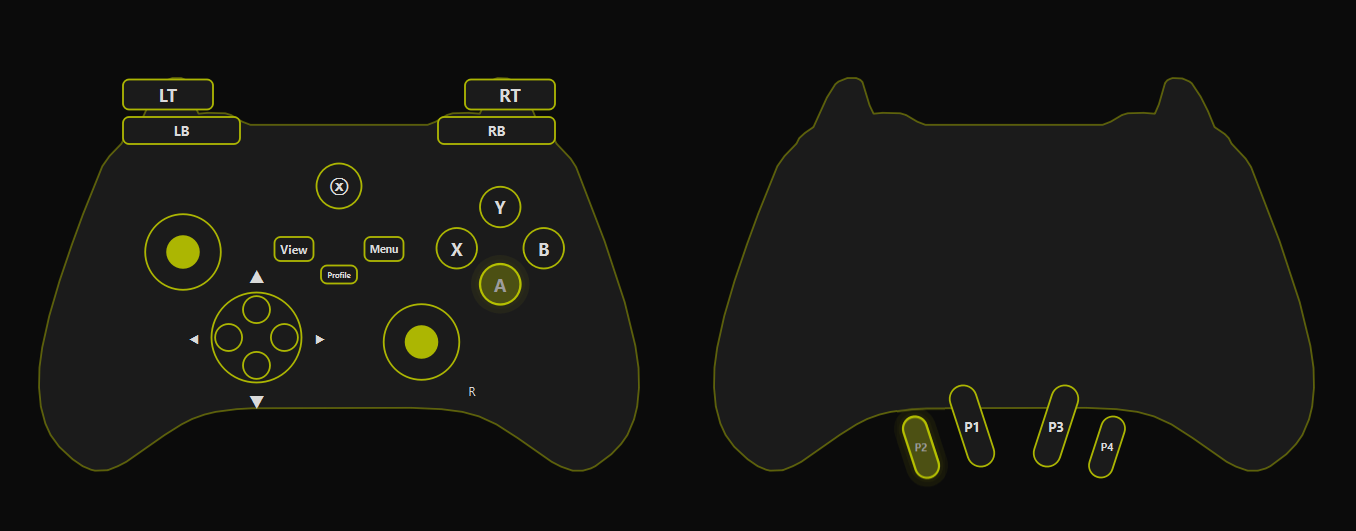
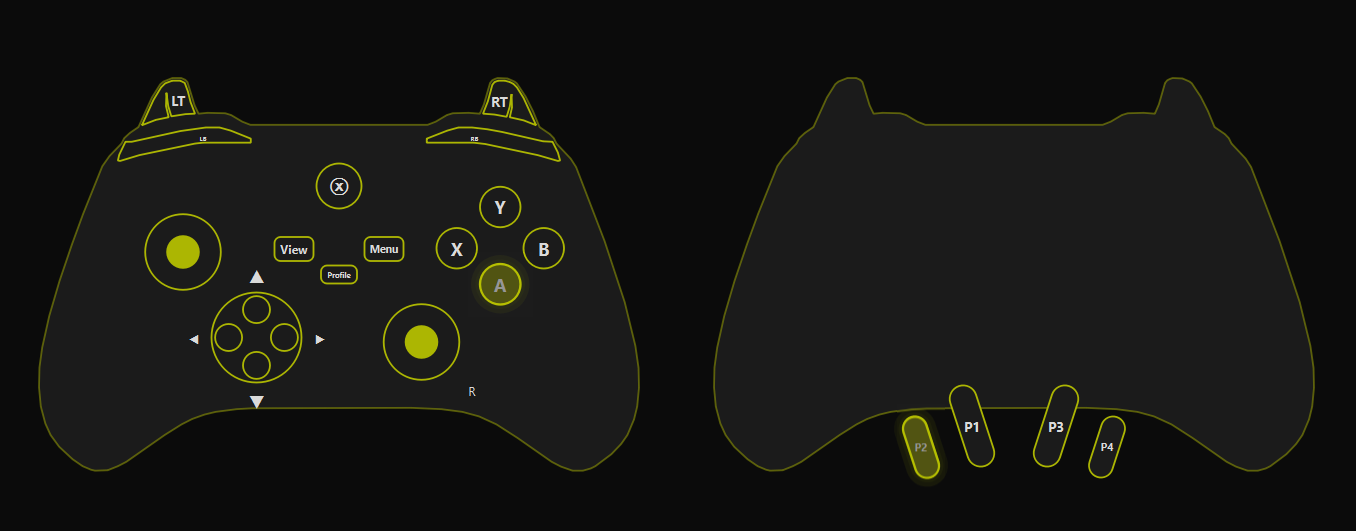
Triggers and bumpers are the diagram's own shapes, on their own spots
The fins and the two bumpers are traced from the same CC0 Series controller
diagram as the body, so LT / RT stand on the trigger fins and LB / RB lie along
the bumpers instead of floating as rounded boxes above the body. Each part is
stored normalised to its own box, so it draws correctly at any overlay size, and
carries the largest box that fits inside it for its label.

Changed region(s): [[0.3097, 0.1205, 0.4336, 0.3013], [0.0929, 0.1205, 0.1858, 0.3013]]

diff --git a/design/XboxLayouts.dc.html b/design/XboxLayouts.dc.html
@@ -14,7 +14,7 @@
 
   </style>
 </helmet>
-<div style="width: 1382px; height: 392px; background: #0c0c0e; position: relative; overflow: hidden;"><svg width="1382" height="392" viewBox="0 0 1382 392" xmlns="http://www.w3.org/2000/svg" style="display: block;"><path d="M 120.9 78.0 L 126.8 78.0 L 129.5 79.2 L 131.0 80.7 L 135.7 96.1 L 138.4 101.8 L 144.3 101.2 L 156.2 101.5 L 160.1 102.7 L 167.5 107.1 L 172.9 109.2 L 291.1 109.2 L 296.5 107.1 L 303.9 102.7 L 307.8 101.5 L 318.5 101.2 L 325.9 101.8 L 328.6 95.5 L 332.7 81.3 L 334.2 79.5 L 336.0 78.6 L 337.8 78.0 L 344.3 78.3 L 349.1 80.4 L 350.6 81.6 L 356.5 90.5 L 361.3 100.0 L 365.7 110.7 L 372.6 115.4 L 375.2 118.1 L 377.0 121.7 L 386.5 131.8 L 390.1 137.4 L 409.1 186.8 L 422.5 227.5 L 429.6 256.6 L 431.7 271.2 L 432.0 284.5 L 430.8 297.0 L 428.7 305.6 L 424.3 316.0 L 420.1 322.0 L 413.6 328.8 L 402.9 336.8 L 399.9 338.3 L 394.6 339.8 L 387.7 339.8 L 380.0 337.1 L 373.8 333.9 L 351.2 318.1 L 336.9 308.9 L 325.3 303.6 L 314.3 300.6 L 300.4 298.8 L 280.1 297.9 L 173.8 298.2 L 163.6 298.8 L 149.7 300.6 L 142.3 302.4 L 134.2 305.3 L 127.1 308.9 L 115.8 316.0 L 90.2 333.9 L 84.6 336.8 L 77.8 339.5 L 69.4 339.8 L 66.8 339.2 L 61.1 336.8 L 54.3 332.1 L 45.4 323.8 L 39.7 316.0 L 36.2 308.3 L 33.2 297.0 L 32.0 284.2 L 32.3 270.9 L 34.1 257.8 L 38.8 236.7 L 45.7 213.2 L 54.0 188.8 L 61.4 168.6 L 74.2 136.8 L 79.0 130.0 L 87.0 121.7 L 88.8 118.1 L 92.6 114.6 L 98.3 110.7 L 107.2 91.1 L 112.8 82.2 L 114.9 80.4 L 120.9 78.0 Z" fill="#1e1e1e" stroke="#c9d400" stroke-opacity="0.47" stroke-width="1.2"></path><circle cx="128.0" cy="194.0" r="25.2" fill="#1e1e1e" stroke="#c9d400" stroke-width="1.2"></circle><circle cx="128.0" cy="194.0" r="10.6" fill="#c9d400"></circle><circle cx="177.0" cy="251.0" r="30.0" fill="#1e1e1e" stroke="#c9d400" stroke-width="1.2"></circle><circle cx="177.0" cy="232.4" r="9.0" fill="#1e1e1e" stroke="#c9d400" stroke-width="1.2"></circle><circle cx="177.0" cy="269.6" r="9.0" fill="#1e1e1e" stroke="#c9d400" stroke-width="1.2"></circle><circle cx="158.4" cy="251.0" r="9.0" fill="#1e1e1e" stroke="#c9d400" stroke-width="1.2"></circle><circle cx="195.6" cy="251.0" r="9.0" fill="#1e1e1e" stroke="#c9d400" stroke-width="1.2"></circle><circle cx="287.0" cy="254.0" r="25.2" fill="#1e1e1e" stroke="#c9d400" stroke-width="1.2"></circle><circle cx="287.0" cy="254.0" r="10.6" fill="#c9d400"></circle><path d="M 88.0 83.0 C 88.0 80.8 89.8 79.0 92.0 79.0 L 144.0 79.0 C 146.2 79.0 148.0 80.8 148.0 83.0 L 148.0 95.0 C 148.0 97.2 146.2 99.0 144.0 99.0 L 92.0 99.0 C 89.8 99.0 88.0 97.2 88.0 95.0 L 88.0 83.0 Z" fill="#1e1e1e" stroke="#c9d400" stroke-width="1.2"></path><text x="118.0" y="93.2" text-anchor="middle" font-family="'Segoe UI', system-ui, -apple-system, sans-serif" font-size="12.0" font-weight="700" fill="#ffffff">LT</text><path d="M 316.0 83.0 C 316.0 80.8 317.8 79.0 320.0 79.0 L 372.0 79.0 C 374.2 79.0 376.0 80.8 376.0 83.0 L 376.0 95.0 C 376.0 97.2 374.2 99.0 372.0 99.0 L 320.0 99.0 C 317.8 99.0 316.0 97.2 316.0 95.0 L 316.0 83.0 Z" fill="#1e1e1e" stroke="#c9d400" stroke-width="1.2"></path><text x="346.0" y="93.2" text-anchor="middle" font-family="'Segoe UI', system-ui, -apple-system, sans-serif" font-size="12.0" font-weight="700" fill="#ffffff">RT</text><path d="M 88.0 108.0 C 88.0 105.8 89.8 104.0 92.0 104.0 L 162.0 104.0 C 164.2 104.0 166.0 105.8 166.0 108.0 L 166.0 118.0 C 166.0 120.2 164.2 122.0 162.0 122.0 L 92.0 122.0 C 89.8 122.0 88.0 120.2 88.0 118.0 L 88.0 108.0 Z" fill="#1e1e1e" stroke="#c9d400" stroke-width="1.2"></path><text x="127.0" y="117.2" text-anchor="middle" font-family="'Segoe UI', system-ui, -apple-system, sans-serif" font-size="12.0" font-weight="700" fill="#ffffff">LB</text><path d="M 298.0 108.0 C 298.0 105.8 299.8 104.0 302.0 104.0 L 372.0 104.0 C 374.2 104.0 376.0 105.8 376.0 108.0 L 376.0 118.0 C 376.0 120.2 374.2 122.0 372.0 122.0 L 302.0 122.0 C 299.8 122.0 298.0 120.2 298.0 118.0 L 298.0 108.0 Z" fill="#1e1e1e" stroke="#c9d400" stroke-width="1.2"></path><text x="337.0" y="117.2" text-anchor="middle" font-family="'Segoe UI', system-ui, -apple-system, sans-serif" font-size="12.0" font-weight="700" fill="#ffffff">RB</text><path d="M 247.0 150.0 C 247.0 158.3 240.3 165.0 232.0 165.0 C 223.7 165.0 217.0 158.3 217.0 150.0 C 217.0 141.7 223.7 135.0 232.0 135.0 C 240.3 135.0 247.0 141.7 247.0 150.0 Z" fill="#1e1e1e" stroke="#c9d400" stroke-width="1.2"></path><text x="232.0" y="154.2" text-anchor="middle" font-family="'Segoe UI', system-ui, -apple-system, sans-serif" font-size="12.0" font-weight="700" fill="#ffffff">ⓧ</text><path d="M 189.0 188.0 C 189.0 185.8 190.8 184.0 193.0 184.0 L 211.0 184.0 C 213.2 184.0 215.0 185.8 215.0 188.0 L 215.0 196.0 C 215.0 198.2 213.2 200.0 211.0 200.0 L 193.0 200.0 C 190.8 200.0 189.0 198.2 189.0 196.0 L 189.0 188.0 Z" fill="#1e1e1e" stroke="#c9d400" stroke-width="1.2"></path><text x="202.0" y="196.2" text-anchor="middle" font-family="'Segoe UI', system-ui, -apple-system, sans-serif" font-size="12.0" font-weight="700" fill="#ffffff">View</text><path d="M 249.0 188.0 C 249.0 185.8 250.8 184.0 253.0 184.0 L 271.0 184.0 C 273.2 184.0 275.0 185.8 275.0 188.0 L 275.0 196.0 C 275.0 198.2 273.2 200.0 271.0 200.0 L 253.0 200.0 C 250.8 200.0 249.0 198.2 249.0 196.0 L 249.0 188.0 Z" fill="#1e1e1e" stroke="#c9d400" stroke-width="1.2"></path><text x="262.0" y="196.2" text-anchor="middle" font-family="'Segoe UI', system-ui, -apple-system, sans-serif" font-size="12.0" font-weight="700" fill="#ffffff">Menu</text><path d="M 220.0 207.0 C 220.0 204.8 221.8 203.0 224.0 203.0 L 240.0 203.0 C 242.2 203.0 244.0 204.8 244.0 207.0 L 244.0 211.0 C 244.0 213.2 242.2 215.0 240.0 215.0 L 224.0 215.0 C 221.8 215.0 220.0 213.2 220.0 211.0 L 220.0 207.0 Z" fill="#1e1e1e" stroke="#c9d400" stroke-width="1.2"></path><text x="232.0" y="212.4" text-anchor="middle" font-family="'Segoe UI', system-ui, -apple-system, sans-serif" font-size="9.6" font-weight="700" fill="#ffffff">Share</text><path d="M 353.0 164.0 C 353.0 171.5 347.0 177.5 339.5 177.5 C 332.0 177.5 326.0 171.5 326.0 164.0 C 326.0 156.5 332.0 150.5 339.5 150.5 C 347.0 150.5 353.0 156.5 353.0 164.0 Z" fill="#1e1e1e" stroke="#c9d400" stroke-width="1.2"></path><text x="339.5" y="168.2" text-anchor="middle" font-family="'Segoe UI', system-ui, -apple-system, sans-serif" font-size="12.0" font-weight="700" fill="#ffffff">Y</text><path d="M 324.0 191.5 C 324.0 199.0 318.0 205.0 310.5 205.0 C 303.0 205.0 297.0 199.0 297.0 191.5 C 297.0 184.0 303.0 178.0 310.5 178.0 C 318.0 178.0 324.0 184.0 324.0 191.5 Z" fill="#1e1e1e" stroke="#c9d400" stroke-width="1.2"></path><text x="310.5" y="195.7" text-anchor="middle" font-family="'Segoe UI', system-ui, -apple-system, sans-serif" font-size="12.0" font-weight="700" fill="#ffffff">X</text><path d="M 382.0 191.5 C 382.0 199.0 376.0 205.0 368.5 205.0 C 361.0 205.0 355.0 199.0 355.0 191.5 C 355.0 184.0 361.0 178.0 368.5 178.0 C 376.0 178.0 382.0 184.0 382.0 191.5 Z" fill="#1e1e1e" stroke="#c9d400" stroke-width="1.2"></path><text x="368.5" y="195.7" text-anchor="middle" font-family="'Segoe UI', system-ui, -apple-system, sans-serif" font-size="12.0" font-weight="700" fill="#ffffff">B</text><path d="M 353.0 215.5 C 353.0 223.0 347.0 229.0 339.5 229.0 C 332.0 229.0 326.0 223.0 326.0 215.5 C 326.0 208.0 332.0 202.0 339.5 202.0 C 347.0 202.0 353.0 208.0 353.0 215.5 Z" fill="none" stroke="#c9d400" stroke-opacity="0.18" stroke-width="12"></path><path d="M 353.0 215.5 C 353.0 223.0 347.0 229.0 339.5 229.0 C 332.0 229.0 326.0 223.0 326.0 215.5 C 326.0 208.0 332.0 202.0 339.5 202.0 C 347.0 202.0 353.0 208.0 353.0 215.5 Z" fill="none" stroke="#c9d400" stroke-opacity="0.09" stroke-width="6"></path><path d="M 353.0 215.5 C 353.0 223.0 347.0 229.0 339.5 229.0 C 332.0 229.0 326.0 223.0 326.0 215.5 C 326.0 208.0 332.0 202.0 339.5 202.0 C 347.0 202.0 353.0 208.0 353.0 215.5 Z" fill="#c9d400" stroke="#c9d400" stroke-width="2.2"></path><text x="339.5" y="219.7" text-anchor="middle" font-family="'Segoe UI', system-ui, -apple-system, sans-serif" font-size="12.0" font-weight="700" fill="#000000">A</text><text x="233.0" y="31.7" text-anchor="middle" font-family="'Segoe UI', system-ui, -apple-system, sans-serif" font-size="10.7" font-weight="400" fill="#a1a1a6">Xbox Wireless</text><path d="M 586.9 78.0 L 592.8 78.0 L 595.5 79.2 L 597.0 80.7 L 601.7 96.1 L 604.4 101.8 L 610.3 101.2 L 622.2 101.5 L 626.1 102.7 L 633.5 107.1 L 638.9 109.2 L 757.1 109.2 L 762.5 107.1 L 769.9 102.7 L 773.8 101.5 L 784.5 101.2 L 791.9 101.8 L 794.6 95.5 L 798.7 81.3 L 800.2 79.5 L 802.0 78.6 L 803.8 78.0 L 810.3 78.3 L 815.1 80.4 L 816.6 81.6 L 822.5 90.5 L 827.3 100.0 L 831.7 110.7 L 838.6 115.4 L 841.2 118.1 L 843.0 121.7 L 852.5 131.8 L 856.1 137.4 L 875.1 186.8 L 888.5 227.5 L 895.6 256.6 L 897.7 271.2 L 898.0 284.5 L 896.8 297.0 L 894.7 305.6 L 890.3 316.0 L 886.1 322.0 L 879.6 328.8 L 868.9 336.8 L 865.9 338.3 L 860.6 339.8 L 853.7 339.8 L 846.0 337.1 L 839.8 333.9 L 817.2 318.1 L 802.9 308.9 L 791.3 303.6 L 780.3 300.6 L 766.4 298.8 L 746.1 297.9 L 639.8 298.2 L 629.6 298.8 L 615.7 300.6 L 608.3 302.4 L 600.2 305.3 L 593.1 308.9 L 581.8 316.0 L 556.2 333.9 L 550.6 336.8 L 543.8 339.5 L 535.4 339.8 L 532.8 339.2 L 527.1 336.8 L 520.3 332.1 L 511.4 323.8 L 505.7 316.0 L 502.2 308.3 L 499.2 297.0 L 498.0 284.2 L 498.3 270.9 L 500.1 257.8 L 504.8 236.7 L 511.7 213.2 L 520.0 188.8 L 527.4 168.6 L 540.2 136.8 L 545.0 130.0 L 553.0 121.7 L 554.8 118.1 L 558.6 114.6 L 564.3 110.7 L 573.2 91.1 L 578.8 82.2 L 580.9 80.4 L 586.9 78.0 Z" fill="#1e1e1e" stroke="#c9d400" stroke-opacity="0.47" stroke-width="1.2"></path><path d="M 1036.9 78.0 L 1042.8 78.0 L 1045.5 79.2 L 1047.0 80.7 L 1051.7 96.1 L 1054.4 101.8 L 1060.3 101.2 L 1072.2 101.5 L 1076.1 102.7 L 1083.5 107.1 L 1088.9 109.2 L 1207.1 109.2 L 1212.5 107.1 L 1219.9 102.7 L 1223.8 101.5 L 1234.5 101.2 L 1241.9 101.8 L 1244.6 95.5 L 1248.7 81.3 L 1250.2 79.5 L 1252.0 78.6 L 1253.8 78.0 L 1260.3 78.3 L 1265.1 80.4 L 1266.6 81.6 L 1272.5 90.5 L 1277.3 100.0 L 1281.7 110.7 L 1288.6 115.4 L 1291.2 118.1 L 1293.0 121.7 L 1302.5 131.8 L 1306.1 137.4 L 1325.1 186.8 L 1338.5 227.5 L 1345.6 256.6 L 1347.7 271.2 L 1348.0 284.5 L 1346.8 297.0 L 1344.7 305.6 L 1340.3 316.0 L 1336.1 322.0 L 1329.6 328.8 L 1318.9 336.8 L 1315.9 338.3 L 1310.6 339.8 L 1303.7 339.8 L 1296.0 337.1 L 1289.8 333.9 L 1267.2 318.1 L 1252.9 308.9 L 1241.3 303.6 L 1230.3 300.6 L 1216.4 298.8 L 1196.1 297.9 L 1089.8 298.2 L 1079.6 298.8 L 1065.7 300.6 L 1058.3 302.4 L 1050.2 305.3 L 1043.1 308.9 L 1031.8 316.0 L 1006.2 333.9 L 1000.6 336.8 L 993.8 339.5 L 985.4 339.8 L 982.8 339.2 L 977.1 336.8 L 970.3 332.1 L 961.4 323.8 L 955.7 316.0 L 952.2 308.3 L 949.2 297.0 L 948.0 284.2 L 948.3 270.9 L 950.1 257.8 L 954.8 236.7 L 961.7 213.2 L 970.0 188.8 L 977.4 168.6 L 990.2 136.8 L 995.0 130.0 L 1003.0 121.7 L 1004.8 118.1 L 1008.6 114.6 L 1014.3 110.7 L 1023.2 91.1 L 1028.8 82.2 L 1030.9 80.4 L 1036.9 78.0 Z" fill="#1e1e1e" stroke="#c9d400" stroke-opacity="0.47" stroke-width="1.2"></path><circle cx="594.0" cy="194.0" r="25.2" fill="#1e1e1e" stroke="#c9d400" stroke-width="1.2"></circle><circle cx="594.0" cy="194.0" r="10.6" fill="#c9d400"></circle><circle cx="643.0" cy="251.0" r="30.0" fill="#1e1e1e" stroke="#c9d400" stroke-width="1.2"></circle><circle cx="643.0" cy="232.4" r="9.0" fill="#1e1e1e" stroke="#c9d400" stroke-width="1.2"></circle><circle cx="643.0" cy="269.6" r="9.0" fill="#1e1e1e" stroke="#c9d400" stroke-width="1.2"></circle><circle cx="624.4" cy="251.0" r="9.0" fill="#1e1e1e" stroke="#c9d400" stroke-width="1.2"></circle><circle cx="661.6" cy="251.0" r="9.0" fill="#1e1e1e" stroke="#c9d400" stroke-width="1.2"></circle><circle cx="753.0" cy="254.0" r="25.2" fill="#1e1e1e" stroke="#c9d400" stroke-width="1.2"></circle><circle cx="753.0" cy="254.0" r="10.6" fill="#c9d400"></circle><path d="M 554.0 83.0 C 554.0 80.8 555.8 79.0 558.0 79.0 L 610.0 79.0 C 612.2 79.0 614.0 80.8 614.0 83.0 L 614.0 95.0 C 614.0 97.2 612.2 99.0 610.0 99.0 L 558.0 99.0 C 555.8 99.0 554.0 97.2 554.0 95.0 L 554.0 83.0 Z" fill="#1e1e1e" stroke="#c9d400" stroke-width="1.2"></path><text x="584.0" y="93.2" text-anchor="middle" font-family="'Segoe UI', system-ui, -apple-system, sans-serif" font-size="12.0" font-weight="700" fill="#ffffff">LT</text><path d="M 782.0 83.0 C 782.0 80.8 783.8 79.0 786.0 79.0 L 838.0 79.0 C 840.2 79.0 842.0 80.8 842.0 83.0 L 842.0 95.0 C 842.0 97.2 840.2 99.0 838.0 99.0 L 786.0 99.0 C 783.8 99.0 782.0 97.2 782.0 95.0 L 782.0 83.0 Z" fill="#1e1e1e" stroke="#c9d400" stroke-width="1.2"></path><text x="812.0" y="93.2" text-anchor="middle" font-family="'Segoe UI', system-ui, -apple-system, sans-serif" font-size="12.0" font-weight="700" fill="#ffffff">RT</text><path d="M 554.0 108.0 C 554.0 105.8 555.8 104.0 558.0 104.0 L 628.0 104.0 C 630.2 104.0 632.0 105.8 632.0 108.0 L 632.0 118.0 C 632.0 120.2 630.2 122.0 628.0 122.0 L 558.0 122.0 C 555.8 122.0 554.0 120.2 554.0 118.0 L 554.0 108.0 Z" fill="#1e1e1e" stroke="#c9d400" stroke-width="1.2"></path><text x="593.0" y="117.2" text-anchor="middle" font-family="'Segoe UI', system-ui, -apple-system, sans-serif" font-size="12.0" font-weight="700" fill="#ffffff">LB</text><path d="M 764.0 108.0 C 764.0 105.8 765.8 104.0 768.0 104.0 L 838.0 104.0 C 840.2 104.0 842.0 105.8 842.0 108.0 L 842.0 118.0 C 842.0 120.2 840.2 122.0 838.0 122.0 L 768.0 122.0 C 765.8 122.0 764.0 120.2 764.0 118.0 L 764.0 108.0 Z" fill="#1e1e1e" stroke="#c9d400" stroke-width="1.2"></path><text x="803.0" y="117.2" text-anchor="middle" font-family="'Segoe UI', system-ui, -apple-system, sans-serif" font-size="12.0" font-weight="700" fill="#ffffff">RB</text><path d="M 713.0 150.0 C 713.0 158.3 706.3 165.0 698.0 165.0 C 689.7 165.0 683.0 158.3 683.0 150.0 C 683.0 141.7 689.7 135.0 698.0 135.0 C 706.3 135.0 713.0 141.7 713.0 150.0 Z" fill="#1e1e1e" stroke="#c9d400" stroke-width="1.2"></path><text x="698.0" y="154.2" text-anchor="middle" font-family="'Segoe UI', system-ui, -apple-system, sans-serif" font-size="12.0" font-weight="700" fill="#ffffff">ⓧ</text><path d="M 655.0 188.0 C 655.0 185.8 656.8 184.0 659.0 184.0 L 677.0 184.0 C 679.2 184.0 681.0 185.8 681.0 188.0 L 681.0 196.0 C 681.0 198.2 679.2 200.0 677.0 200.0 L 659.0 200.0 C 656.8 200.0 655.0 198.2 655.0 196.0 L 655.0 188.0 Z" fill="#1e1e1e" stroke="#c9d400" stroke-width="1.2"></path><text x="668.0" y="196.2" text-anchor="middle" font-family="'Segoe UI', system-ui, -apple-system, sans-serif" font-size="12.0" font-weight="700" fill="#ffffff">View</text><path d="M 715.0 188.0 C 715.0 185.8 716.8 184.0 719.0 184.0 L 737.0 184.0 C 739.2 184.0 741.0 185.8 741.0 188.0 L 741.0 196.0 C 741.0 198.2 739.2 200.0 737.0 200.0 L 719.0 200.0 C 716.8 200.0 715.0 198.2 715.0 196.0 L 715.0 188.0 Z" fill="#1e1e1e" stroke="#c9d400" stroke-width="1.2"></path><text x="728.0" y="196.2" text-anchor="middle" font-family="'Segoe UI', system-ui, -apple-system, sans-serif" font-size="12.0" font-weight="700" fill="#ffffff">Menu</text><path d="M 686.0 207.0 C 686.0 204.8 687.8 203.0 690.0 203.0 L 706.0 203.0 C 708.2 203.0 710.0 204.8 710.0 207.0 L 710.0 211.0 C 710.0 213.2 708.2 215.0 706.0 215.0 L 690.0 215.0 C 687.8 215.0 686.0 213.2 686.0 211.0 L 686.0 207.0 Z" fill="#1e1e1e" stroke="#c9d400" stroke-width="1.2"></path><text x="698.0" y="212.4" text-anchor="middle" font-family="'Segoe UI', system-ui, -apple-system, sans-serif" font-size="9.6" font-weight="700" fill="#ffffff">Profile</text><path d="M 819.0 164.0 C 819.0 171.5 813.0 177.5 805.5 177.5 C 798.0 177.5 792.0 171.5 792.0 164.0 C 792.0 156.5 798.0 150.5 805.5 150.5 C 813.0 150.5 819.0 156.5 819.0 164.0 Z" fill="#1e1e1e" stroke="#c9d400" stroke-width="1.2"></path><text x="805.5" y="168.2" text-anchor="middle" font-family="'Segoe UI', system-ui, -apple-system, sans-serif" font-size="12.0" font-weight="700" fill="#ffffff">Y</text><path d="M 790.0 191.5 C 790.0 199.0 784.0 205.0 776.5 205.0 C 769.0 205.0 763.0 199.0 763.0 191.5 C 763.0 184.0 769.0 178.0 776.5 178.0 C 784.0 178.0 790.0 184.0 790.0 191.5 Z" fill="#1e1e1e" stroke="#c9d400" stroke-width="1.2"></path><text x="776.5" y="195.7" text-anchor="middle" font-family="'Segoe UI', system-ui, -apple-system, sans-serif" font-size="12.0" font-weight="700" fill="#ffffff">X</text><path d="M 848.0 191.5 C 848.0 199.0 842.0 205.0 834.5 205.0 C 827.0 205.0 821.0 199.0 821.0 191.5 C 821.0 184.0 827.0 178.0 834.5 178.0 C 842.0 178.0 848.0 184.0 848.0 191.5 Z" fill="#1e1e1e" stroke="#c9d400" stroke-width="1.2"></path><text x="834.5" y="195.7" text-anchor="middle" font-family="'Segoe UI', system-ui, -apple-system, sans-serif" font-size="12.0" font-weight="700" fill="#ffffff">B</text><path d="M 819.0 215.5 C 819.0 223.0 813.0 229.0 805.5 229.0 C 798.0 229.0 792.0 223.0 792.0 215.5 C 792.0 208.0 798.0 202.0 805.5 202.0 C 813.0 202.0 819.0 208.0 819.0 215.5 Z" fill="none" stroke="#c9d400" stroke-opacity="0.18" stroke-width="12"></path><path d="M 819.0 215.5 C 819.0 223.0 813.0 229.0 805.5 229.0 C 798.0 229.0 792.0 223.0 792.0 215.5 C 792.0 208.0 798.0 202.0 805.5 202.0 C 813.0 202.0 819.0 208.0 819.0 215.5 Z" fill="none" stroke="#c9d400" stroke-opacity="0.09" stroke-width="6"></path><path d="M 819.0 215.5 C 819.0 223.0 813.0 229.0 805.5 229.0 C 798.0 229.0 792.0 223.0 792.0 215.5 C 792.0 208.0 798.0 202.0 805.5 202.0 C 813.0 202.0 819.0 208.0 819.0 215.5 Z" fill="#c9d400" stroke="#c9d400" stroke-width="2.2"></path><text x="805.5" y="219.7" text-anchor="middle" font-family="'Segoe UI', system-ui, -apple-system, sans-serif" font-size="12.0" font-weight="700" fill="#000000">A</text><path d="M 1105.6 294.7 C 1104.0 290.0 1106.6 284.9 1111.3 283.4 C 1116.1 281.8 1121.2 284.4 1122.7 289.1 L 1134.4 325.3 C 1136.0 330.0 1133.4 335.1 1128.7 336.6 C 1123.9 338.2 1118.8 335.6 1117.3 330.9 L 1105.6 294.7 Z" fill="#1e1e1e" stroke="#c9d400" stroke-width="1.2"></path><text x="1120.0" y="314.2" text-anchor="middle" font-family="'Segoe UI', system-ui, -apple-system, sans-serif" font-size="12.0" font-weight="700" fill="#ffffff">P1</text><path d="M 1074.4 314.1 C 1073.0 309.9 1075.3 305.4 1079.5 304.0 C 1083.7 302.7 1088.2 305.0 1089.6 309.2 L 1097.6 333.9 C 1099.0 338.1 1096.7 342.6 1092.5 344.0 C 1088.3 345.3 1083.8 343.0 1082.4 338.8 L 1074.4 314.1 Z" fill="none" stroke="#c9d400" stroke-opacity="0.18" stroke-width="12"></path><path d="M 1074.4 314.1 C 1073.0 309.9 1075.3 305.4 1079.5 304.0 C 1083.7 302.7 1088.2 305.0 1089.6 309.2 L 1097.6 333.9 C 1099.0 338.1 1096.7 342.6 1092.5 344.0 C 1088.3 345.3 1083.8 343.0 1082.4 338.8 L 1074.4 314.1 Z" fill="none" stroke="#c9d400" stroke-opacity="0.09" stroke-width="6"></path><path d="M 1074.4 314.1 C 1073.0 309.9 1075.3 305.4 1079.5 304.0 C 1083.7 302.7 1088.2 305.0 1089.6 309.2 L 1097.6 333.9 C 1099.0 338.1 1096.7 342.6 1092.5 344.0 C 1088.3 345.3 1083.8 343.0 1082.4 338.8 L 1074.4 314.1 Z" fill="#c9d400" stroke="#c9d400" stroke-width="2.2"></path><text x="1086.0" y="328.2" text-anchor="middle" font-family="'Segoe UI', system-ui, -apple-system, sans-serif" font-size="12.0" font-weight="700" fill="#000000">P2</text><path d="M 1173.3 289.1 C 1174.8 284.4 1179.9 281.8 1184.7 283.4 C 1189.4 284.9 1192.0 290.0 1190.4 294.7 L 1178.7 330.9 C 1177.2 335.6 1172.1 338.2 1167.3 336.6 C 1162.6 335.1 1160.0 330.0 1161.6 325.3 L 1173.3 289.1 Z" fill="#1e1e1e" stroke="#c9d400" stroke-width="1.2"></path><text x="1176.0" y="314.2" text-anchor="middle" font-family="'Segoe UI', system-ui, -apple-system, sans-serif" font-size="12.0" font-weight="700" fill="#ffffff">P3</text><path d="M 1206.4 309.2 C 1207.8 305.0 1212.3 302.7 1216.5 304.0 C 1220.7 305.4 1223.0 309.9 1221.6 314.1 L 1213.6 338.8 C 1212.2 343.0 1207.7 345.3 1203.5 344.0 C 1199.3 342.6 1197.0 338.1 1198.4 333.9 L 1206.4 309.2 Z" fill="#1e1e1e" stroke="#c9d400" stroke-width="1.2"></path><text x="1210.0" y="328.2" text-anchor="middle" font-family="'Segoe UI', system-ui, -apple-system, sans-serif" font-size="12.0" font-weight="700" fill="#ffffff">P4</text><text x="924.0" y="31.7" text-anchor="middle" font-family="'Segoe UI', system-ui, -apple-system, sans-serif" font-size="10.7" font-weight="400" fill="#a1a1a6">Xbox Elite Series 2</text></svg></div>
+<div style="width: 1382px; height: 392px; background: #0c0c0e; position: relative; overflow: hidden;"><svg width="1382" height="392" viewBox="0 0 1382 392" xmlns="http://www.w3.org/2000/svg" style="display: block;"><path d="M 120.9 78.0 L 126.8 78.0 L 129.5 79.2 L 131.0 80.7 L 135.7 96.1 L 138.4 101.8 L 144.3 101.2 L 156.2 101.5 L 160.1 102.7 L 167.5 107.1 L 172.9 109.2 L 291.1 109.2 L 296.5 107.1 L 303.9 102.7 L 307.8 101.5 L 318.5 101.2 L 325.9 101.8 L 328.6 95.5 L 332.7 81.3 L 334.2 79.5 L 336.0 78.6 L 337.8 78.0 L 344.3 78.3 L 349.1 80.4 L 350.6 81.6 L 356.5 90.5 L 361.3 100.0 L 365.7 110.7 L 372.6 115.4 L 375.2 118.1 L 377.0 121.7 L 386.5 131.8 L 390.1 137.4 L 409.1 186.8 L 422.5 227.5 L 429.6 256.6 L 431.7 271.2 L 432.0 284.5 L 430.8 297.0 L 428.7 305.6 L 424.3 316.0 L 420.1 322.0 L 413.6 328.8 L 402.9 336.8 L 399.9 338.3 L 394.6 339.8 L 387.7 339.8 L 380.0 337.1 L 373.8 333.9 L 351.2 318.1 L 336.9 308.9 L 325.3 303.6 L 314.3 300.6 L 300.4 298.8 L 280.1 297.9 L 173.8 298.2 L 163.6 298.8 L 149.7 300.6 L 142.3 302.4 L 134.2 305.3 L 127.1 308.9 L 115.8 316.0 L 90.2 333.9 L 84.6 336.8 L 77.8 339.5 L 69.4 339.8 L 66.8 339.2 L 61.1 336.8 L 54.3 332.1 L 45.4 323.8 L 39.7 316.0 L 36.2 308.3 L 33.2 297.0 L 32.0 284.2 L 32.3 270.9 L 34.1 257.8 L 38.8 236.7 L 45.7 213.2 L 54.0 188.8 L 61.4 168.6 L 74.2 136.8 L 79.0 130.0 L 87.0 121.7 L 88.8 118.1 L 92.6 114.6 L 98.3 110.7 L 107.2 91.1 L 112.8 82.2 L 114.9 80.4 L 120.9 78.0 Z" fill="#1e1e1e" stroke="#c9d400" stroke-opacity="0.47" stroke-width="1.2"></path><circle cx="128.0" cy="194.0" r="25.2" fill="#1e1e1e" stroke="#c9d400" stroke-width="1.2"></circle><circle cx="128.0" cy="194.0" r="10.6" fill="#c9d400"></circle><circle cx="177.0" cy="251.0" r="30.0" fill="#1e1e1e" stroke="#c9d400" stroke-width="1.2"></circle><circle cx="177.0" cy="232.4" r="9.0" fill="#1e1e1e" stroke="#c9d400" stroke-width="1.2"></circle><circle cx="177.0" cy="269.6" r="9.0" fill="#1e1e1e" stroke="#c9d400" stroke-width="1.2"></circle><circle cx="158.4" cy="251.0" r="9.0" fill="#1e1e1e" stroke="#c9d400" stroke-width="1.2"></circle><circle cx="195.6" cy="251.0" r="9.0" fill="#1e1e1e" stroke="#c9d400" stroke-width="1.2"></circle><circle cx="287.0" cy="254.0" r="25.2" fill="#1e1e1e" stroke="#c9d400" stroke-width="1.2"></circle><circle cx="287.0" cy="254.0" r="10.6" fill="#c9d400"></circle><path d="M 120.8 79.8 L 126.2 79.8 L 129.2 81.3 L 131.2 86.9 L 133.0 94.1 L 136.0 101.8 L 129.8 102.1 L 120.2 103.6 L 118.2 96.7 L 117.0 87.8 L 116.7 96.7 L 118.4 104.2 L 109.8 105.9 L 100.6 109.5 L 108.3 92.6 L 113.4 84.3 L 116.1 81.6 L 120.8 79.8 Z" fill="#1e1e1e" stroke="#c9d400" stroke-width="1.2"></path><text x="124.8" y="97.2" text-anchor="middle" font-family="'Segoe UI', system-ui, -apple-system, sans-serif" font-size="12.0" font-weight="700" fill="#ffffff">LT</text><path d="M 338.1 79.8 L 342.6 79.8 L 345.8 80.7 L 348.2 81.9 L 350.6 84.3 L 355.1 91.4 L 363.4 109.5 L 355.1 106.2 L 345.8 104.2 L 347.3 97.6 L 347.0 88.7 L 345.8 97.0 L 343.8 103.9 L 335.7 102.4 L 328.0 101.8 L 331.3 93.5 L 334.2 82.5 L 335.7 80.7 L 338.1 79.8 Z" fill="#1e1e1e" stroke="#c9d400" stroke-width="1.2"></path><text x="338.9" y="97.5" text-anchor="middle" font-family="'Segoe UI', system-ui, -apple-system, sans-serif" font-size="12.0" font-weight="700" fill="#ffffff">RT</text><path d="M 143.2 111.0 L 152.4 111.0 L 159.8 113.1 L 173.2 118.4 L 173.2 121.1 L 141.4 121.1 L 136.0 121.7 L 98.9 129.4 L 86.1 133.3 L 84.6 133.0 L 85.5 129.1 L 89.7 120.5 L 93.8 120.5 L 126.2 113.4 L 143.2 111.0 Z" fill="#1e1e1e" stroke="#c9d400" stroke-width="1.2"></path><text x="141.4" y="122.4" text-anchor="middle" font-family="'Segoe UI', system-ui, -apple-system, sans-serif" font-size="12.0" font-weight="700" fill="#ffffff">LB</text><path d="M 311.6 111.0 L 320.8 111.0 L 330.9 112.2 L 340.7 114.0 L 368.1 120.2 L 374.3 120.5 L 377.9 127.7 L 379.4 133.0 L 377.9 133.3 L 364.5 129.4 L 329.4 122.0 L 321.7 121.1 L 290.5 121.1 L 290.5 118.4 L 304.2 113.1 L 311.6 111.0 Z" fill="#1e1e1e" stroke="#c9d400" stroke-width="1.2"></path><text x="322.3" y="122.4" text-anchor="middle" font-family="'Segoe UI', system-ui, -apple-system, sans-serif" font-size="12.0" font-weight="700" fill="#ffffff">RB</text><path d="M 247.0 150.0 C 247.0 158.3 240.3 165.0 232.0 165.0 C 223.7 165.0 217.0 158.3 217.0 150.0 C 217.0 141.7 223.7 135.0 232.0 135.0 C 240.3 135.0 247.0 141.7 247.0 150.0 Z" fill="#1e1e1e" stroke="#c9d400" stroke-width="1.2"></path><text x="232.0" y="154.2" text-anchor="middle" font-family="'Segoe UI', system-ui, -apple-system, sans-serif" font-size="12.0" font-weight="700" fill="#ffffff">ⓧ</text><path d="M 189.0 188.0 C 189.0 185.8 190.8 184.0 193.0 184.0 L 211.0 184.0 C 213.2 184.0 215.0 185.8 215.0 188.0 L 215.0 196.0 C 215.0 198.2 213.2 200.0 211.0 200.0 L 193.0 200.0 C 190.8 200.0 189.0 198.2 189.0 196.0 L 189.0 188.0 Z" fill="#1e1e1e" stroke="#c9d400" stroke-width="1.2"></path><text x="202.0" y="196.2" text-anchor="middle" font-family="'Segoe UI', system-ui, -apple-system, sans-serif" font-size="12.0" font-weight="700" fill="#ffffff">View</text><path d="M 249.0 188.0 C 249.0 185.8 250.8 184.0 253.0 184.0 L 271.0 184.0 C 273.2 184.0 275.0 185.8 275.0 188.0 L 275.0 196.0 C 275.0 198.2 273.2 200.0 271.0 200.0 L 253.0 200.0 C 250.8 200.0 249.0 198.2 249.0 196.0 L 249.0 188.0 Z" fill="#1e1e1e" stroke="#c9d400" stroke-width="1.2"></path><text x="262.0" y="196.2" text-anchor="middle" font-family="'Segoe UI', system-ui, -apple-system, sans-serif" font-size="12.0" font-weight="700" fill="#ffffff">Menu</text><path d="M 220.0 207.0 C 220.0 204.8 221.8 203.0 224.0 203.0 L 240.0 203.0 C 242.2 203.0 244.0 204.8 244.0 207.0 L 244.0 211.0 C 244.0 213.2 242.2 215.0 240.0 215.0 L 224.0 215.0 C 221.8 215.0 220.0 213.2 220.0 211.0 L 220.0 207.0 Z" fill="#1e1e1e" stroke="#c9d400" stroke-width="1.2"></path><text x="232.0" y="212.4" text-anchor="middle" font-family="'Segoe UI', system-ui, -apple-system, sans-serif" font-size="9.6" font-weight="700" fill="#ffffff">Share</text><path d="M 353.0 164.0 C 353.0 171.5 347.0 177.5 339.5 177.5 C 332.0 177.5 326.0 171.5 326.0 164.0 C 326.0 156.5 332.0 150.5 339.5 150.5 C 347.0 150.5 353.0 156.5 353.0 164.0 Z" fill="#1e1e1e" stroke="#c9d400" stroke-width="1.2"></path><text x="339.5" y="168.2" text-anchor="middle" font-family="'Segoe UI', system-ui, -apple-system, sans-serif" font-size="12.0" font-weight="700" fill="#ffffff">Y</text><path d="M 324.0 191.5 C 324.0 199.0 318.0 205.0 310.5 205.0 C 303.0 205.0 297.0 199.0 297.0 191.5 C 297.0 184.0 303.0 178.0 310.5 178.0 C 318.0 178.0 324.0 184.0 324.0 191.5 Z" fill="#1e1e1e" stroke="#c9d400" stroke-width="1.2"></path><text x="310.5" y="195.7" text-anchor="middle" font-family="'Segoe UI', system-ui, -apple-system, sans-serif" font-size="12.0" font-weight="700" fill="#ffffff">X</text><path d="M 382.0 191.5 C 382.0 199.0 376.0 205.0 368.5 205.0 C 361.0 205.0 355.0 199.0 355.0 191.5 C 355.0 184.0 361.0 178.0 368.5 178.0 C 376.0 178.0 382.0 184.0 382.0 191.5 Z" fill="#1e1e1e" stroke="#c9d400" stroke-width="1.2"></path><text x="368.5" y="195.7" text-anchor="middle" font-family="'Segoe UI', system-ui, -apple-system, sans-serif" font-size="12.0" font-weight="700" fill="#ffffff">B</text><path d="M 353.0 215.5 C 353.0 223.0 347.0 229.0 339.5 229.0 C 332.0 229.0 326.0 223.0 326.0 215.5 C 326.0 208.0 332.0 202.0 339.5 202.0 C 347.0 202.0 353.0 208.0 353.0 215.5 Z" fill="none" stroke="#c9d400" stroke-opacity="0.18" stroke-width="12"></path><path d="M 353.0 215.5 C 353.0 223.0 347.0 229.0 339.5 229.0 C 332.0 229.0 326.0 223.0 326.0 215.5 C 326.0 208.0 332.0 202.0 339.5 202.0 C 347.0 202.0 353.0 208.0 353.0 215.5 Z" fill="none" stroke="#c9d400" stroke-opacity="0.09" stroke-width="6"></path><path d="M 353.0 215.5 C 353.0 223.0 347.0 229.0 339.5 229.0 C 332.0 229.0 326.0 223.0 326.0 215.5 C 326.0 208.0 332.0 202.0 339.5 202.0 C 347.0 202.0 353.0 208.0 353.0 215.5 Z" fill="#c9d400" stroke="#c9d400" stroke-width="2.2"></path><text x="339.5" y="219.7" text-anchor="middle" font-family="'Segoe UI', system-ui, -apple-system, sans-serif" font-size="12.0" font-weight="700" fill="#000000">A</text><text x="233.0" y="31.7" text-anchor="middle" font-family="'Segoe UI', system-ui, -apple-system, sans-serif" font-size="10.7" font-weight="400" fill="#a1a1a6">Xbox Wireless</text><path d="M 586.9 78.0 L 592.8 78.0 L 595.5 79.2 L 597.0 80.7 L 601.7 96.1 L 604.4 101.8 L 610.3 101.2 L 622.2 101.5 L 626.1 102.7 L 633.5 107.1 L 638.9 109.2 L 757.1 109.2 L 762.5 107.1 L 769.9 102.7 L 773.8 101.5 L 784.5 101.2 L 791.9 101.8 L 794.6 95.5 L 798.7 81.3 L 800.2 79.5 L 802.0 78.6 L 803.8 78.0 L 810.3 78.3 L 815.1 80.4 L 816.6 81.6 L 822.5 90.5 L 827.3 100.0 L 831.7 110.7 L 838.6 115.4 L 841.2 118.1 L 843.0 121.7 L 852.5 131.8 L 856.1 137.4 L 875.1 186.8 L 888.5 227.5 L 895.6 256.6 L 897.7 271.2 L 898.0 284.5 L 896.8 297.0 L 894.7 305.6 L 890.3 316.0 L 886.1 322.0 L 879.6 328.8 L 868.9 336.8 L 865.9 338.3 L 860.6 339.8 L 853.7 339.8 L 846.0 337.1 L 839.8 333.9 L 817.2 318.1 L 802.9 308.9 L 791.3 303.6 L 780.3 300.6 L 766.4 298.8 L 746.1 297.9 L 639.8 298.2 L 629.6 298.8 L 615.7 300.6 L 608.3 302.4 L 600.2 305.3 L 593.1 308.9 L 581.8 316.0 L 556.2 333.9 L 550.6 336.8 L 543.8 339.5 L 535.4 339.8 L 532.8 339.2 L 527.1 336.8 L 520.3 332.1 L 511.4 323.8 L 505.7 316.0 L 502.2 308.3 L 499.2 297.0 L 498.0 284.2 L 498.3 270.9 L 500.1 257.8 L 504.8 236.7 L 511.7 213.2 L 520.0 188.8 L 527.4 168.6 L 540.2 136.8 L 545.0 130.0 L 553.0 121.7 L 554.8 118.1 L 558.6 114.6 L 564.3 110.7 L 573.2 91.1 L 578.8 82.2 L 580.9 80.4 L 586.9 78.0 Z" fill="#1e1e1e" stroke="#c9d400" stroke-opacity="0.47" stroke-width="1.2"></path><path d="M 1036.9 78.0 L 1042.8 78.0 L 1045.5 79.2 L 1047.0 80.7 L 1051.7 96.1 L 1054.4 101.8 L 1060.3 101.2 L 1072.2 101.5 L 1076.1 102.7 L 1083.5 107.1 L 1088.9 109.2 L 1207.1 109.2 L 1212.5 107.1 L 1219.9 102.7 L 1223.8 101.5 L 1234.5 101.2 L 1241.9 101.8 L 1244.6 95.5 L 1248.7 81.3 L 1250.2 79.5 L 1252.0 78.6 L 1253.8 78.0 L 1260.3 78.3 L 1265.1 80.4 L 1266.6 81.6 L 1272.5 90.5 L 1277.3 100.0 L 1281.7 110.7 L 1288.6 115.4 L 1291.2 118.1 L 1293.0 121.7 L 1302.5 131.8 L 1306.1 137.4 L 1325.1 186.8 L 1338.5 227.5 L 1345.6 256.6 L 1347.7 271.2 L 1348.0 284.5 L 1346.8 297.0 L 1344.7 305.6 L 1340.3 316.0 L 1336.1 322.0 L 1329.6 328.8 L 1318.9 336.8 L 1315.9 338.3 L 1310.6 339.8 L 1303.7 339.8 L 1296.0 337.1 L 1289.8 333.9 L 1267.2 318.1 L 1252.9 308.9 L 1241.3 303.6 L 1230.3 300.6 L 1216.4 298.8 L 1196.1 297.9 L 1089.8 298.2 L 1079.6 298.8 L 1065.7 300.6 L 1058.3 302.4 L 1050.2 305.3 L 1043.1 308.9 L 1031.8 316.0 L 1006.2 333.9 L 1000.6 336.8 L 993.8 339.5 L 985.4 339.8 L 982.8 339.2 L 977.1 336.8 L 970.3 332.1 L 961.4 323.8 L 955.7 316.0 L 952.2 308.3 L 949.2 297.0 L 948.0 284.2 L 948.3 270.9 L 950.1 257.8 L 954.8 236.7 L 961.7 213.2 L 970.0 188.8 L 977.4 168.6 L 990.2 136.8 L 995.0 130.0 L 1003.0 121.7 L 1004.8 118.1 L 1008.6 114.6 L 1014.3 110.7 L 1023.2 91.1 L 1028.8 82.2 L 1030.9 80.4 L 1036.9 78.0 Z" fill="#1e1e1e" stroke="#c9d400" stroke-opacity="0.47" stroke-width="1.2"></path><circle cx="594.0" cy="194.0" r="25.2" fill="#1e1e1e" stroke="#c9d400" stroke-width="1.2"></circle><circle cx="594.0" cy="194.0" r="10.6" fill="#c9d400"></circle><circle cx="643.0" cy="251.0" r="30.0" fill="#1e1e1e" stroke="#c9d400" stroke-width="1.2"></circle><circle cx="643.0" cy="232.4" r="9.0" fill="#1e1e1e" stroke="#c9d400" stroke-width="1.2"></circle><circle cx="643.0" cy="269.6" r="9.0" fill="#1e1e1e" stroke="#c9d400" stroke-width="1.2"></circle><circle cx="624.4" cy="251.0" r="9.0" fill="#1e1e1e" stroke="#c9d400" stroke-width="1.2"></circle><circle cx="661.6" cy="251.0" r="9.0" fill="#1e1e1e" stroke="#c9d400" stroke-width="1.2"></circle><circle cx="753.0" cy="254.0" r="25.2" fill="#1e1e1e" stroke="#c9d400" stroke-width="1.2"></circle><circle cx="753.0" cy="254.0" r="10.6" fill="#c9d400"></circle><path d="M 586.8 79.8 L 592.2 79.8 L 595.2 81.3 L 597.2 86.9 L 599.0 94.1 L 602.0 101.8 L 595.8 102.1 L 586.2 103.6 L 584.2 96.7 L 583.0 87.8 L 582.7 96.7 L 584.4 104.2 L 575.8 105.9 L 566.6 109.5 L 574.3 92.6 L 579.4 84.3 L 582.1 81.6 L 586.8 79.8 Z" fill="#1e1e1e" stroke="#c9d400" stroke-width="1.2"></path><text x="590.8" y="97.2" text-anchor="middle" font-family="'Segoe UI', system-ui, -apple-system, sans-serif" font-size="12.0" font-weight="700" fill="#ffffff">LT</text><path d="M 804.1 79.8 L 808.6 79.8 L 811.8 80.7 L 814.2 81.9 L 816.6 84.3 L 821.1 91.4 L 829.4 109.5 L 821.1 106.2 L 811.8 104.2 L 813.3 97.6 L 813.0 88.7 L 811.8 97.0 L 809.8 103.9 L 801.7 102.4 L 794.0 101.8 L 797.3 93.5 L 800.2 82.5 L 801.7 80.7 L 804.1 79.8 Z" fill="#1e1e1e" stroke="#c9d400" stroke-width="1.2"></path><text x="804.9" y="97.5" text-anchor="middle" font-family="'Segoe UI', system-ui, -apple-system, sans-serif" font-size="12.0" font-weight="700" fill="#ffffff">RT</text><path d="M 609.2 111.0 L 618.4 111.0 L 625.8 113.1 L 639.2 118.4 L 639.2 121.1 L 607.4 121.1 L 602.0 121.7 L 564.9 129.4 L 552.1 133.3 L 550.6 133.0 L 551.5 129.1 L 555.7 120.5 L 559.8 120.5 L 592.2 113.4 L 609.2 111.0 Z" fill="#1e1e1e" stroke="#c9d400" stroke-width="1.2"></path><text x="607.4" y="122.4" text-anchor="middle" font-family="'Segoe UI', system-ui, -apple-system, sans-serif" font-size="12.0" font-weight="700" fill="#ffffff">LB</text><path d="M 777.6 111.0 L 786.8 111.0 L 796.9 112.2 L 806.7 114.0 L 834.1 120.2 L 840.3 120.5 L 843.9 127.7 L 845.4 133.0 L 843.9 133.3 L 830.5 129.4 L 795.4 122.0 L 787.7 121.1 L 756.5 121.1 L 756.5 118.4 L 770.2 113.1 L 777.6 111.0 Z" fill="#1e1e1e" stroke="#c9d400" stroke-width="1.2"></path><text x="788.3" y="122.4" text-anchor="middle" font-family="'Segoe UI', system-ui, -apple-system, sans-serif" font-size="12.0" font-weight="700" fill="#ffffff">RB</text><path d="M 713.0 150.0 C 713.0 158.3 706.3 165.0 698.0 165.0 C 689.7 165.0 683.0 158.3 683.0 150.0 C 683.0 141.7 689.7 135.0 698.0 135.0 C 706.3 135.0 713.0 141.7 713.0 150.0 Z" fill="#1e1e1e" stroke="#c9d400" stroke-width="1.2"></path><text x="698.0" y="154.2" text-anchor="middle" font-family="'Segoe UI', system-ui, -apple-system, sans-serif" font-size="12.0" font-weight="700" fill="#ffffff">ⓧ</text><path d="M 655.0 188.0 C 655.0 185.8 656.8 184.0 659.0 184.0 L 677.0 184.0 C 679.2 184.0 681.0 185.8 681.0 188.0 L 681.0 196.0 C 681.0 198.2 679.2 200.0 677.0 200.0 L 659.0 200.0 C 656.8 200.0 655.0 198.2 655.0 196.0 L 655.0 188.0 Z" fill="#1e1e1e" stroke="#c9d400" stroke-width="1.2"></path><text x="668.0" y="196.2" text-anchor="middle" font-family="'Segoe UI', system-ui, -apple-system, sans-serif" font-size="12.0" font-weight="700" fill="#ffffff">View</text><path d="M 715.0 188.0 C 715.0 185.8 716.8 184.0 719.0 184.0 L 737.0 184.0 C 739.2 184.0 741.0 185.8 741.0 188.0 L 741.0 196.0 C 741.0 198.2 739.2 200.0 737.0 200.0 L 719.0 200.0 C 716.8 200.0 715.0 198.2 715.0 196.0 L 715.0 188.0 Z" fill="#1e1e1e" stroke="#c9d400" stroke-width="1.2"></path><text x="728.0" y="196.2" text-anchor="middle" font-family="'Segoe UI', system-ui, -apple-system, sans-serif" font-size="12.0" font-weight="700" fill="#ffffff">Menu</text><path d="M 686.0 207.0 C 686.0 204.8 687.8 203.0 690.0 203.0 L 706.0 203.0 C 708.2 203.0 710.0 204.8 710.0 207.0 L 710.0 211.0 C 710.0 213.2 708.2 215.0 706.0 215.0 L 690.0 215.0 C 687.8 215.0 686.0 213.2 686.0 211.0 L 686.0 207.0 Z" fill="#1e1e1e" stroke="#c9d400" stroke-width="1.2"></path><text x="698.0" y="212.4" text-anchor="middle" font-family="'Segoe UI', system-ui, -apple-system, sans-serif" font-size="9.6" font-weight="700" fill="#ffffff">Profile</text><path d="M 819.0 164.0 C 819.0 171.5 813.0 177.5 805.5 177.5 C 798.0 177.5 792.0 171.5 792.0 164.0 C 792.0 156.5 798.0 150.5 805.5 150.5 C 813.0 150.5 819.0 156.5 819.0 164.0 Z" fill="#1e1e1e" stroke="#c9d400" stroke-width="1.2"></path><text x="805.5" y="168.2" text-anchor="middle" font-family="'Segoe UI', system-ui, -apple-system, sans-serif" font-size="12.0" font-weight="700" fill="#ffffff">Y</text><path d="M 790.0 191.5 C 790.0 199.0 784.0 205.0 776.5 205.0 C 769.0 205.0 763.0 199.0 763.0 191.5 C 763.0 184.0 769.0 178.0 776.5 178.0 C 784.0 178.0 790.0 184.0 790.0 191.5 Z" fill="#1e1e1e" stroke="#c9d400" stroke-width="1.2"></path><text x="776.5" y="195.7" text-anchor="middle" font-family="'Segoe UI', system-ui, -apple-system, sans-serif" font-size="12.0" font-weight="700" fill="#ffffff">X</text><path d="M 848.0 191.5 C 848.0 199.0 842.0 205.0 834.5 205.0 C 827.0 205.0 821.0 199.0 821.0 191.5 C 821.0 184.0 827.0 178.0 834.5 178.0 C 842.0 178.0 848.0 184.0 848.0 191.5 Z" fill="#1e1e1e" stroke="#c9d400" stroke-width="1.2"></path><text x="834.5" y="195.7" text-anchor="middle" font-family="'Segoe UI', system-ui, -apple-system, sans-serif" font-size="12.0" font-weight="700" fill="#ffffff">B</text><path d="M 819.0 215.5 C 819.0 223.0 813.0 229.0 805.5 229.0 C 798.0 229.0 792.0 223.0 792.0 215.5 C 792.0 208.0 798.0 202.0 805.5 202.0 C 813.0 202.0 819.0 208.0 819.0 215.5 Z" fill="none" stroke="#c9d400" stroke-opacity="0.18" stroke-width="12"></path><path d="M 819.0 215.5 C 819.0 223.0 813.0 229.0 805.5 229.0 C 798.0 229.0 792.0 223.0 792.0 215.5 C 792.0 208.0 798.0 202.0 805.5 202.0 C 813.0 202.0 819.0 208.0 819.0 215.5 Z" fill="none" stroke="#c9d400" stroke-opacity="0.09" stroke-width="6"></path><path d="M 819.0 215.5 C 819.0 223.0 813.0 229.0 805.5 229.0 C 798.0 229.0 792.0 223.0 792.0 215.5 C 792.0 208.0 798.0 202.0 805.5 202.0 C 813.0 202.0 819.0 208.0 819.0 215.5 Z" fill="#c9d400" stroke="#c9d400" stroke-width="2.2"></path><text x="805.5" y="219.7" text-anchor="middle" font-family="'Segoe UI', system-ui, -apple-system, sans-serif" font-size="12.0" font-weight="700" fill="#000000">A</text><path d="M 1105.6 294.7 C 1104.0 290.0 1106.6 284.9 1111.3 283.4 C 1116.1 281.8 1121.2 284.4 1122.7 289.1 L 1134.4 325.3 C 1136.0 330.0 1133.4 335.1 1128.7 336.6 C 1123.9 338.2 1118.8 335.6 1117.3 330.9 L 1105.6 294.7 Z" fill="#1e1e1e" stroke="#c9d400" stroke-width="1.2"></path><text x="1120.0" y="314.2" text-anchor="middle" font-family="'Segoe UI', system-ui, -apple-system, sans-serif" font-size="12.0" font-weight="700" fill="#ffffff">P1</text><path d="M 1074.4 314.1 C 1073.0 309.9 1075.3 305.4 1079.5 304.0 C 1083.7 302.7 1088.2 305.0 1089.6 309.2 L 1097.6 333.9 C 1099.0 338.1 1096.7 342.6 1092.5 344.0 C 1088.3 345.3 1083.8 343.0 1082.4 338.8 L 1074.4 314.1 Z" fill="none" stroke="#c9d400" stroke-opacity="0.18" stroke-width="12"></path><path d="M 1074.4 314.1 C 1073.0 309.9 1075.3 305.4 1079.5 304.0 C 1083.7 302.7 1088.2 305.0 1089.6 309.2 L 1097.6 333.9 C 1099.0 338.1 1096.7 342.6 1092.5 344.0 C 1088.3 345.3 1083.8 343.0 1082.4 338.8 L 1074.4 314.1 Z" fill="none" stroke="#c9d400" stroke-opacity="0.09" stroke-width="6"></path><path d="M 1074.4 314.1 C 1073.0 309.9 1075.3 305.4 1079.5 304.0 C 1083.7 302.7 1088.2 305.0 1089.6 309.2 L 1097.6 333.9 C 1099.0 338.1 1096.7 342.6 1092.5 344.0 C 1088.3 345.3 1083.8 343.0 1082.4 338.8 L 1074.4 314.1 Z" fill="#c9d400" stroke="#c9d400" stroke-width="2.2"></path><text x="1086.0" y="328.2" text-anchor="middle" font-family="'Segoe UI', system-ui, -apple-system, sans-serif" font-size="12.0" font-weight="700" fill="#000000">P2</text><path d="M 1173.3 289.1 C 1174.8 284.4 1179.9 281.8 1184.7 283.4 C 1189.4 284.9 1192.0 290.0 1190.4 294.7 L 1178.7 330.9 C 1177.2 335.6 1172.1 338.2 1167.3 336.6 C 1162.6 335.1 1160.0 330.0 1161.6 325.3 L 1173.3 289.1 Z" fill="#1e1e1e" stroke="#c9d400" stroke-width="1.2"></path><text x="1176.0" y="314.2" text-anchor="middle" font-family="'Segoe UI', system-ui, -apple-system, sans-serif" font-size="12.0" font-weight="700" fill="#ffffff">P3</text><path d="M 1206.4 309.2 C 1207.8 305.0 1212.3 302.7 1216.5 304.0 C 1220.7 305.4 1223.0 309.9 1221.6 314.1 L 1213.6 338.8 C 1212.2 343.0 1207.7 345.3 1203.5 344.0 C 1199.3 342.6 1197.0 338.1 1198.4 333.9 L 1206.4 309.2 Z" fill="#1e1e1e" stroke="#c9d400" stroke-width="1.2"></path><text x="1210.0" y="328.2" text-anchor="middle" font-family="'Segoe UI', system-ui, -apple-system, sans-serif" font-size="12.0" font-weight="700" fill="#ffffff">P4</text><text x="924.0" y="31.7" text-anchor="middle" font-family="'Segoe UI', system-ui, -apple-system, sans-serif" font-size="10.7" font-weight="400" fill="#a1a1a6">Xbox Elite Series 2</text></svg></div>
 </x-dc>
 </body>
 </html>

diff --git a/overlay.py b/overlay.py
@@ -499,6 +499,10 @@ STICK_LABEL_FLAGS = Qt.AlignmentFlag.AlignBottom | Qt.AlignmentFlag.AlignRight
 
 def key_text_rect(rect, shape="rect"):
     """Keep labels inside the border, including on circular buttons."""
+    if shape in XBOX_PARTS:  # slanted fins and bumpers: the label goes in the box that fits inside
+        tx, ty, tw, th = XBOX_PARTS[shape]["text"]
+        return QRectF(rect.x() + tx * rect.width(), rect.y() + ty * rect.height(),
+                      tw * rect.width(), th * rect.height())
     area = rect.adjusted(3, 2, -3, -2)
     if shape.startswith("mouse_"):  # the label sits under the domed top
         area.adjust(0, area.height() * 0.3, 0, 0)
@@ -571,6 +575,8 @@ def shape_path(rect, shape, radius):
         path.addEllipse(rect)
     elif shape.startswith("mouse_"):
         path = mouse_button_path(rect, left=shape.startswith("mouse_left"), full=shape.endswith("_full"))
+    elif shape in XBOX_PARTS:  # a trigger fin or a bumper, drawn as the real control
+        path = _xbox_part(rect, shape)
     elif shape in ("paddle_l", "paddle_r"):  # pill tilted 18° away from the controller's centre line
         r = min(rect.width(), rect.height()) / 2
         pill = QPainterPath()
@@ -580,6 +586,61 @@ def shape_path(rect, shape, radius):
         path = t.map(pill)
     else:
         path.addRoundedRect(rect, radius, radius)
+    return path
+
+
+# The trigger fins and the two bumpers, traced from the same diagram as XBOX_OUTLINE.
+# Each polygon is normalised to its own box, so a pad draws the real control at any size;
+# "text" is the widest box inside that polygon, where the label goes.
+XBOX_PARTS = {
+    "xbox_lt": {
+        "poly": [
+            (0.5714, 0), (0.7227, 0), (0.8067, 0.05), (0.8655, 0.24),
+            (0.916, 0.48), (1, 0.74), (0.8235, 0.75), (0.5546, 0.8),
+            (0.4958, 0.57), (0.4622, 0.27), (0.4538, 0.57), (0.5042, 0.82),
+            (0.2605, 0.88), (0, 1), (0.2185, 0.43), (0.3613, 0.15),
+            (0.437, 0.06),
+        ],
+        "text": [0.508, 0.238, 0.35, 0.416],
+    },
+    "xbox_rt": {
+        "poly": [
+            (0.2857, 0), (0.4118, 0), (0.5042, 0.03), (0.5714, 0.07),
+            (0.6387, 0.15), (0.7647, 0.39), (1, 1), (0.7647, 0.89),
+            (0.5042, 0.82), (0.5462, 0.6), (0.5378, 0.3), (0.5042, 0.58),
+            (0.4454, 0.81), (0.2185, 0.76), (0, 0.74), (0.0924, 0.46),
+            (0.1765, 0.09), (0.2185, 0.03),
+        ],
+        "text": [0.133, 0.248, 0.35, 0.416],
+    },
+    "xbox_lb": {
+        "poly": [
+            (0.6611, 0), (0.7651, 0), (0.849, 0.0933), (1, 0.3333),
+            (1, 0.4533), (0.6409, 0.4533), (0.5805, 0.48), (0.1611, 0.8267),
+            (0.0168, 1), (0, 0.9867), (0.0101, 0.8133), (0.057, 0.4267),
+            (0.104, 0.4267), (0.4698, 0.1067),
+        ],
+        "text": [0.375, 0.184, 0.532, 0.276],
+    },
+    "xbox_rb": {
+        "poly": [
+            (0.2375, 0), (0.3411, 0), (0.4548, 0.0533), (0.5652, 0.1333),
+            (0.8729, 0.4133), (0.9431, 0.4267), (0.9833, 0.7467), (1, 0.9867),
+            (0.9833, 1), (0.8328, 0.8267), (0.4381, 0.4933), (0.3512, 0.4533),
+            (0, 0.4533), (0, 0.3333), (0.1538, 0.0933),
+        ],
+        "text": [0.093, 0.184, 0.53, 0.276],
+    },
+}
+
+
+def _xbox_part(rect, shape):
+    poly = XBOX_PARTS[shape]["poly"]
+    path = QPainterPath()
+    path.moveTo(rect.x() + poly[0][0] * rect.width(), rect.y() + poly[0][1] * rect.height())
+    for fx, fy in poly[1:]:
+        path.lineTo(rect.x() + fx * rect.width(), rect.y() + fy * rect.height())
+    path.closeSubpath()
     return path
 
 

diff --git a/tests/test_xbox_templates.py b/tests/test_xbox_templates.py
@@ -117,3 +117,28 @@ def test_elite_paints_and_covers_the_back_body(window):  # noqa: F811
     assert kinds == ["xbox_front", "xbox_back"]
     assert window.width() >= window.decor[1][1].right()
     window.grab()  # paints every pad, paddle, and both silhouettes
+
+
+@pytest.mark.parametrize("shape", ["xbox_lt", "xbox_rt", "xbox_lb", "xbox_rb"])
+def test_trigger_and_bumper_shapes_fill_their_pad(shape):
+    rect = QRectF(40, 30, 120, 60)
+    path = overlay.shape_path(rect, shape, 4)
+    box = path.boundingRect()
+    assert not path.isEmpty()
+    assert rect.adjusted(-0.5, -0.5, 0.5, 0.5).contains(box)
+    assert box.width() > rect.width() * 0.95 and box.height() > rect.height() * 0.95
+    text = overlay.key_text_rect(rect, shape)
+    assert rect.contains(text) and text.width() > 0 and text.height() > 0
+    assert path.contains(text.center())  # the label sits on the control, not beside it
+
+
+def test_triggers_and_bumpers_use_the_traced_shapes():
+    prof = templates.xbox_profile(False)
+    by_label = {k["label"]: k for k in prof["keys"]}
+    for label, shape in (("LT", "xbox_lt"), ("RT", "xbox_rt"), ("LB", "xbox_lb"), ("RB", "xbox_rb")):
+        assert by_label[label]["shape"] == shape
+    for label in ("LT", "RT"):
+        assert by_label[label]["axis"] == by_label[label]["input"]  # analog travel, not just pressed
+    fin, bumper = QRectF(*[by_label["LT"][k] for k in ("col", "row", "w", "h")]), _rect(by_label["LB"])
+    assert fin.bottom() <= bumper.top()  # the fin stands above the bumper, as it is drawn
+    assert _rect(by_label["RT"]).left() > fin.right() and _rect(by_label["RB"]).left() > bumper.right()

diff --git a/templates.py b/templates.py
@@ -451,11 +451,12 @@ def _circle(cx, cy, r, label, inp):
 
 def xbox_profile(elite=False):
     """Xbox Wireless, or Elite Series 2 with a second body for the four rear paddles."""
+    # The triggers and bumpers are the diagram's own shapes, placed where they are drawn.
     keys = [
-        _u(56, 27, 60, 20, label="LT", axis="gp:lefttrigger", input="gp:lefttrigger"),   # on the trigger fins
-        _u(284, 27, 60, 20, label="RT", axis="gp:righttrigger", input="gp:righttrigger"),
-        _u(56, 52, 78, 18, label="LB", input="gp:leftshoulder"),   # along the bumpers
-        _u(266, 52, 78, 18, label="RB", input="gp:rightshoulder"),
+        _u(68.6, 27.8, 35.4, 29.7, label="LT", shape="xbox_lt", axis="gp:lefttrigger", input="gp:lefttrigger"),
+        _u(296.0, 27.8, 35.4, 29.7, label="RT", shape="xbox_rt", axis="gp:righttrigger", input="gp:righttrigger"),
+        _u(52.6, 59.0, 88.6, 22.3, label="LB", shape="xbox_lb", input="gp:leftshoulder"),
+        _u(258.5, 59.0, 88.9, 22.3, label="RB", shape="xbox_rb", input="gp:rightshoulder"),
         _circle(200, 98, 15, "ⓧ", "gp:guide"),
         _u(157, 132, 26, 16, label="View", input="gp:back"),
         _u(217, 132, 26, 16, label="Menu", input="gp:start"),
